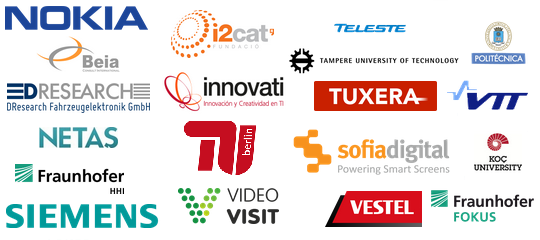
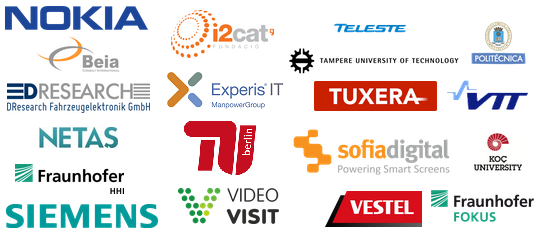
Replaced InnoVati with Experis.

Changed region(s): [[0.2963, 0.2917, 0.5333, 0.4667]]

diff --git a/index.html b/index.html
@@ -327,10 +327,10 @@
           
           <div class="row">
             <div class="col-md-2" style="height: auto; width: 300px;">
-              <a href="http://www.grupoinnovati.com/eng_html_site/index.html" target="_blank"><img class="logo-center" style="height: 80px; width: auto;" src="img/InnoVatiLogoSmall.png"/></a>
+              <a href="http://www.experis.com/" target="_blank"><img class="logo-center" style="height: 80px; width: auto;" src="img/ExperisIT.png"/></a>
             </div>
             <div class="col-xs-6" style="height: 100px; width: 300px;">
-              <span style="position: absolute; bottom: 50%;"><b>Innovati Networks SL,</b> Spain</a></span>
+              <span style="position: absolute; bottom: 50%;"><b>Experis IT,</b> Spain</a></span>
             </div>
           </div>
           
